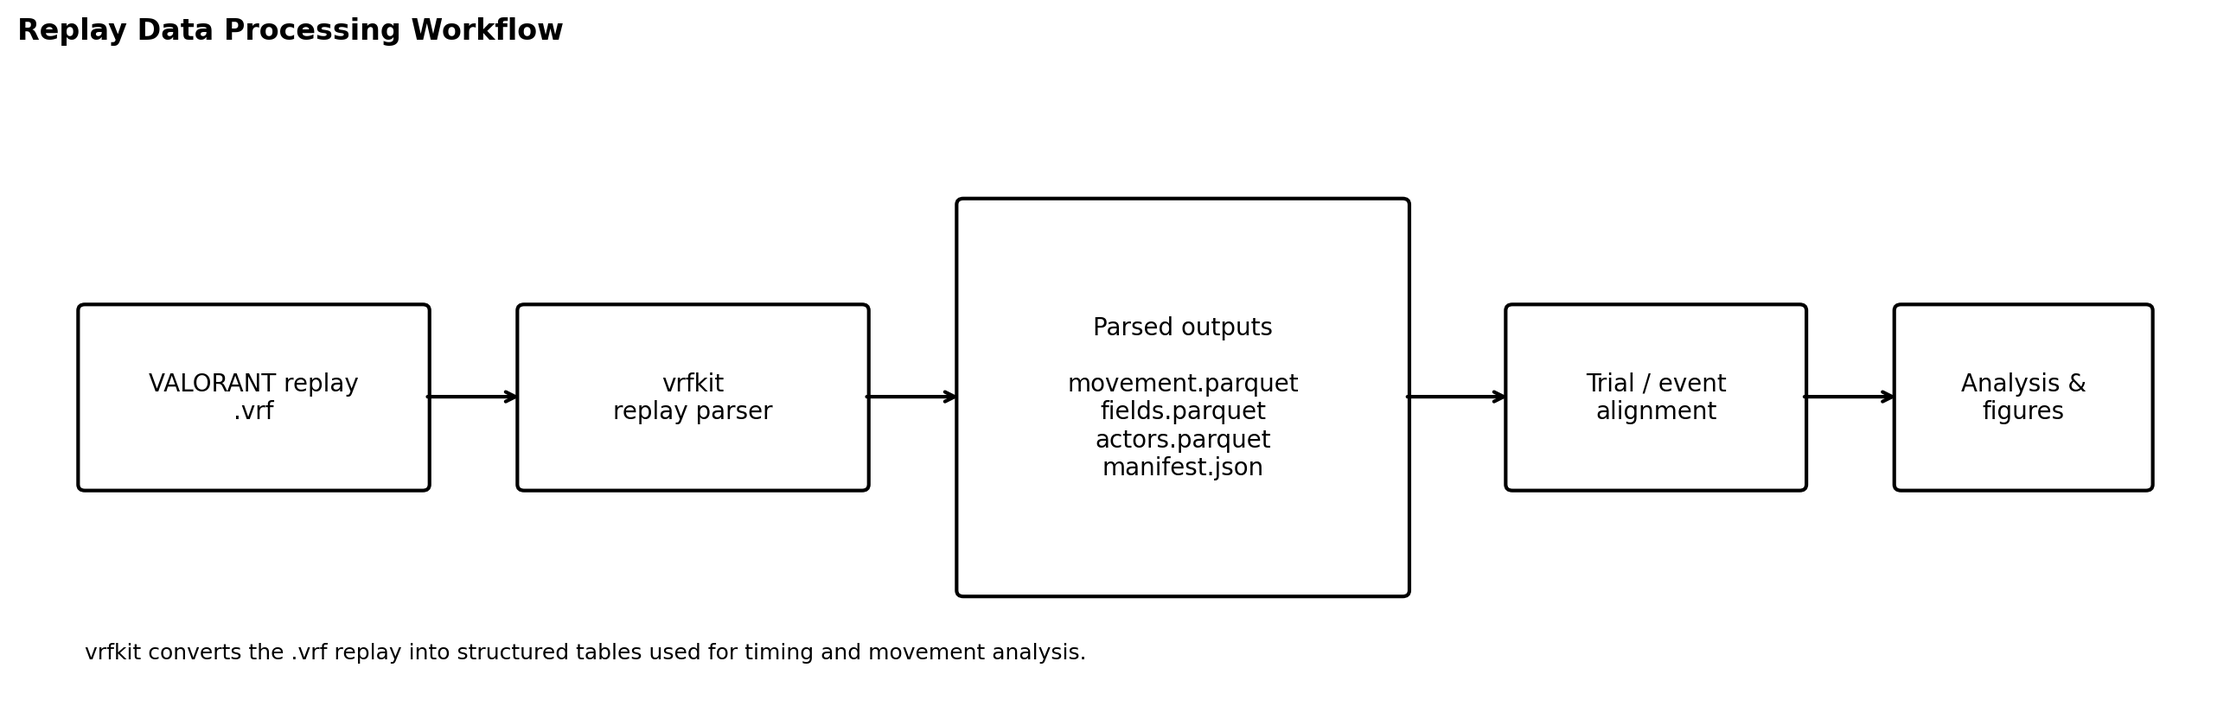
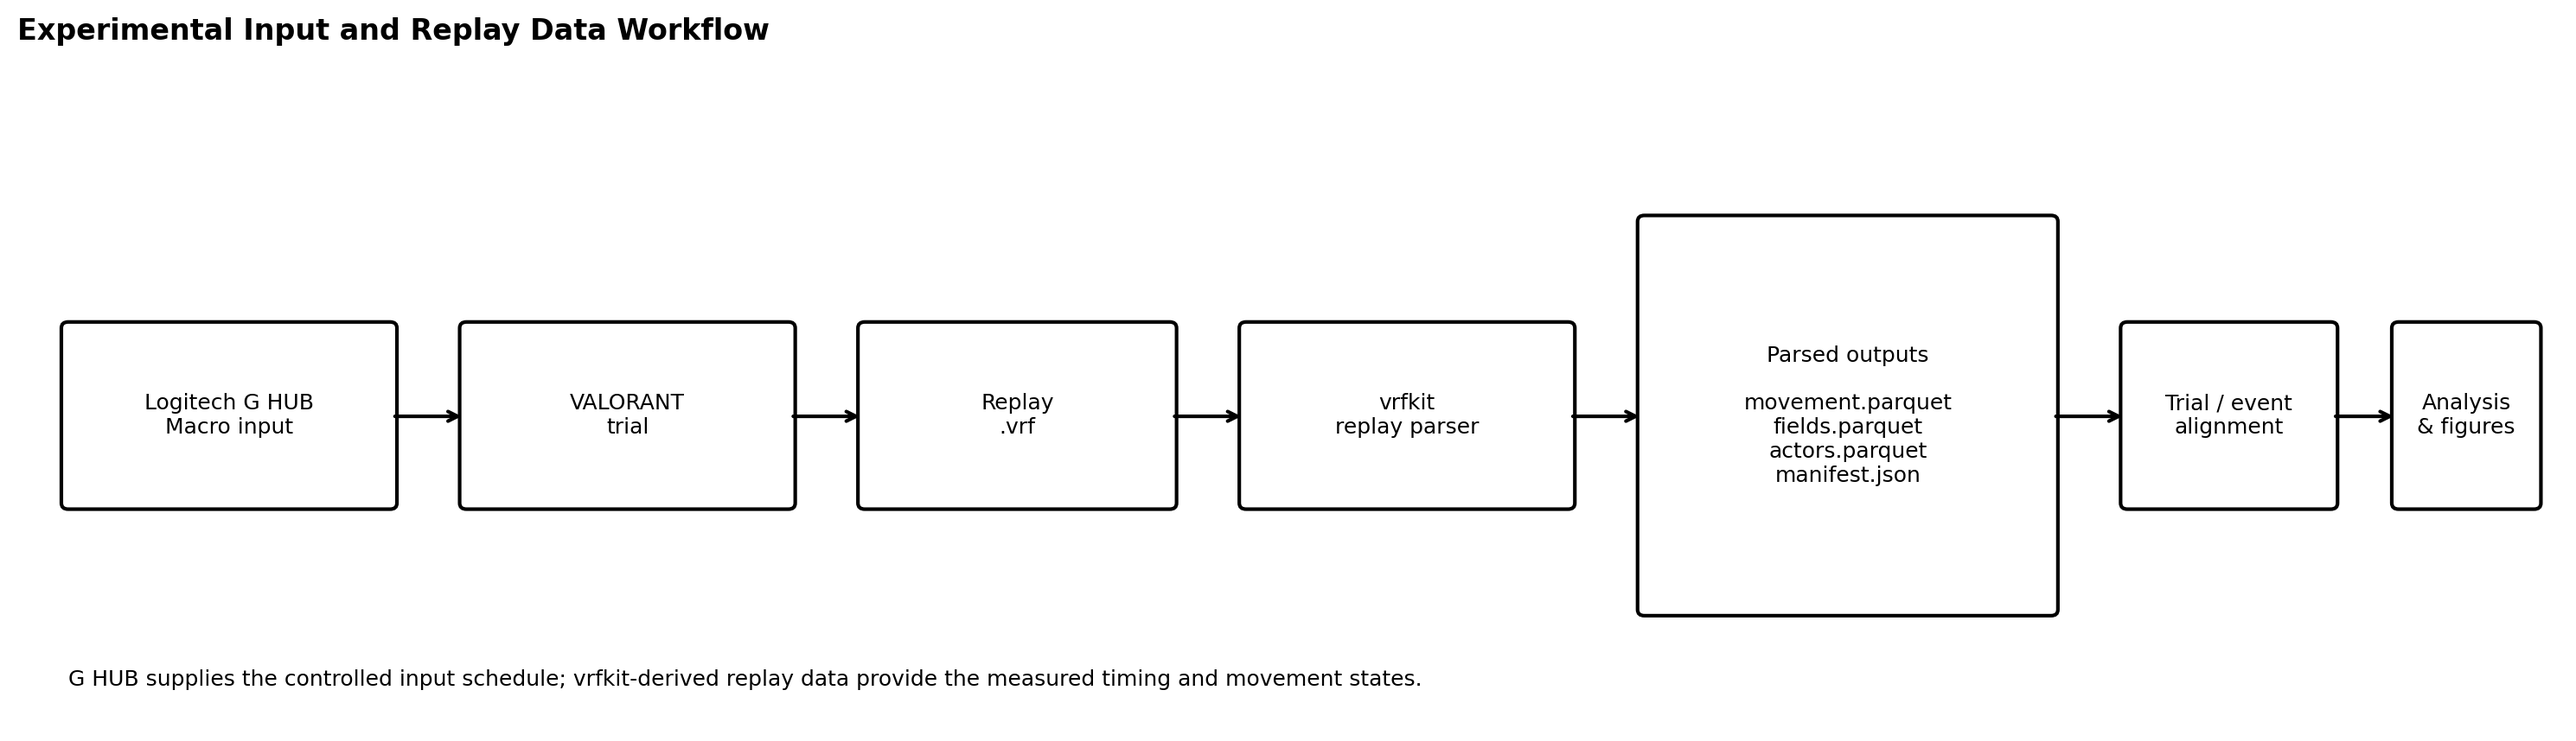
Document Logitech G HUB macro input method

diff --git a/generate_figures.py b/generate_figures.py
@@ -49,23 +49,25 @@ ax.text(0.2,0.55,'Schematic only — not an actual gameplay frame.',fontsize=9)
 ax.set_title('Figure 1. Input Timing and Key Variable Diagram', loc='left', fontweight='bold')
 fig.tight_layout(); fig.savefig(ASSETS/'input-timing-diagram.png', dpi=200, bbox_inches='tight'); plt.close(fig)
 
-# Unnumbered workflow diagram: VRF -> vrfkit -> analysis
-fig, ax = plt.subplots(figsize=(13, 4.2))
-ax.set_xlim(0, 13); ax.set_ylim(0, 4.2); ax.axis('off')
+# Unnumbered workflow diagram: controlled macro input -> replay -> vrfkit -> analysis
+fig, ax = plt.subplots(figsize=(15, 4.4))
+ax.set_xlim(0, 15); ax.set_ylim(0, 4.4); ax.axis('off')
 boxes = [
-    (0.4, 1.35, 2.0, 1.15, 'VALORANT replay\n.vrf'),
-    (3.0, 1.35, 2.0, 1.15, 'vrfkit\nreplay parser'),
-    (5.6, 0.65, 2.6, 2.55, 'Parsed outputs\n\nmovement.parquet\nfields.parquet\nactors.parquet\nmanifest.json'),
-    (8.85, 1.35, 1.7, 1.15, 'Trial / event\nalignment'),
-    (11.15, 1.35, 1.45, 1.15, 'Analysis &\nfigures'),
+    (0.3, 1.45, 1.9, 1.15, 'Logitech G HUB\nMacro input'),
+    (2.65, 1.45, 1.9, 1.15, 'VALORANT\ntrial'),
+    (5.0, 1.45, 1.8, 1.15, 'Replay\n.vrf'),
+    (7.25, 1.45, 1.9, 1.15, 'vrfkit\nreplay parser'),
+    (9.6, 0.75, 2.4, 2.55, 'Parsed outputs\n\nmovement.parquet\nfields.parquet\nactors.parquet\nmanifest.json'),
+    (12.45, 1.45, 1.2, 1.15, 'Trial / event\nalignment'),
+    (14.05, 1.45, 0.8, 1.15, 'Analysis\n& figures'),
 ]
 for x, y0, w, h, text in boxes:
     ax.add_patch(FancyBboxPatch((x,y0), w,h, boxstyle='round,pad=0.04', fill=False, lw=1.5))
-    ax.text(x+w/2, y0+h/2, text, ha='center', va='center', fontsize=10)
-for x1, x2 in [(2.4,3.0),(5.0,5.6),(8.2,8.85),(10.55,11.15)]:
-    ax.annotate('', xy=(x2,1.93), xytext=(x1,1.93), arrowprops=dict(arrowstyle='->', lw=1.5))
-ax.set_title('Replay Data Processing Workflow', loc='left', fontweight='bold')
-ax.text(0.4,0.2,'vrfkit converts the .vrf replay into structured tables used for timing and movement analysis.', fontsize=9)
+    ax.text(x+w/2, y0+h/2, text, ha='center', va='center', fontsize=9)
+for x1, x2 in [(2.2,2.65),(4.55,5.0),(6.8,7.25),(9.15,9.6),(12.0,12.45),(13.65,14.05)]:
+    ax.annotate('', xy=(x2,2.02), xytext=(x1,2.02), arrowprops=dict(arrowstyle='->', lw=1.5))
+ax.set_title('Experimental Input and Replay Data Workflow', loc='left', fontweight='bold')
+ax.text(0.3,0.25,'G HUB supplies the controlled input schedule; vrfkit-derived replay data provide the measured timing and movement states.', fontsize=9)
 fig.tight_layout(); fig.savefig(ASSETS/'replay-processing-workflow.png', dpi=200, bbox_inches='tight'); plt.close(fig)
 
 # Figure 2: Space hold duration comparison

diff --git a/README.md b/README.md
@@ -75,11 +75,19 @@ Replay parsing was performed with [`vrfkit`](https://github.com/yakisoba0728/vrf
 
 ![Replay Data Processing Workflow](assets/replay-processing-workflow.png)
 
-**Replay data processing workflow.** The raw `.vrf` replay is parsed with `vrfkit`; the exported structured tables are then aligned with the manual trial log and used for timing, movement-state, and figure generation.
+**Experimental input and replay-data workflow.** Logitech G HUB Macro provides the controlled Crouch/Space input schedule, VALORANT records the resulting `.vrf` replay, and `vrfkit` converts that replay into structured tables that are aligned with the manual trial log for timing, movement-state, and figure generation.
 
 The replay did not show malformed packets or partial rows in the parser summary. This does not mean every internal game state has been decoded; the jump-sound trigger itself has not yet been directly identified as a replay field.
 
-### 3.2 Experimental order
+### 3.2 Input execution with Logitech G HUB macros
+
+The repeated input sequences were executed using the **macro functionality in Logitech G HUB**. G HUB was used to issue controlled Crouch and Space/Jump key sequences with configured delay values, including the nominal 20 ms and 300 ms Space-hold conditions and the timing variants used in the baseline/A-condition tests.
+
+The configured macro delays are treated only as the **intended input schedule**. They are not assumed to be identical to the timing actually processed by the game. For this reason, the analysis distinguishes nominal macro settings from replay-measured values. T1, T2, H, takeoff state, and Peak Z reported in the results are based on the events reconstructed from the replay data rather than solely on the values entered in G HUB.
+
+This distinction is important because identical or nearby macro settings can still resolve to different observed timing states in the replay. The macro therefore serves as the controlled input source, while `vrfkit` replay data serve as the measurement source.
+
+### 3.3 Experimental order
 
 1. 20 ms Space × 5
 2. 300 ms Space × 5
@@ -92,7 +100,7 @@ The replay did not show malformed packets or partial rows in the parser summary.
 
 The five melee marker events were located around 868.102–871.313 s, which made it possible to separate the invalid baseline from the formal baseline reliably.
 
-### 3.3 Sound labels
+### 3.4 Sound labels
 
 For the formal baseline:
 
